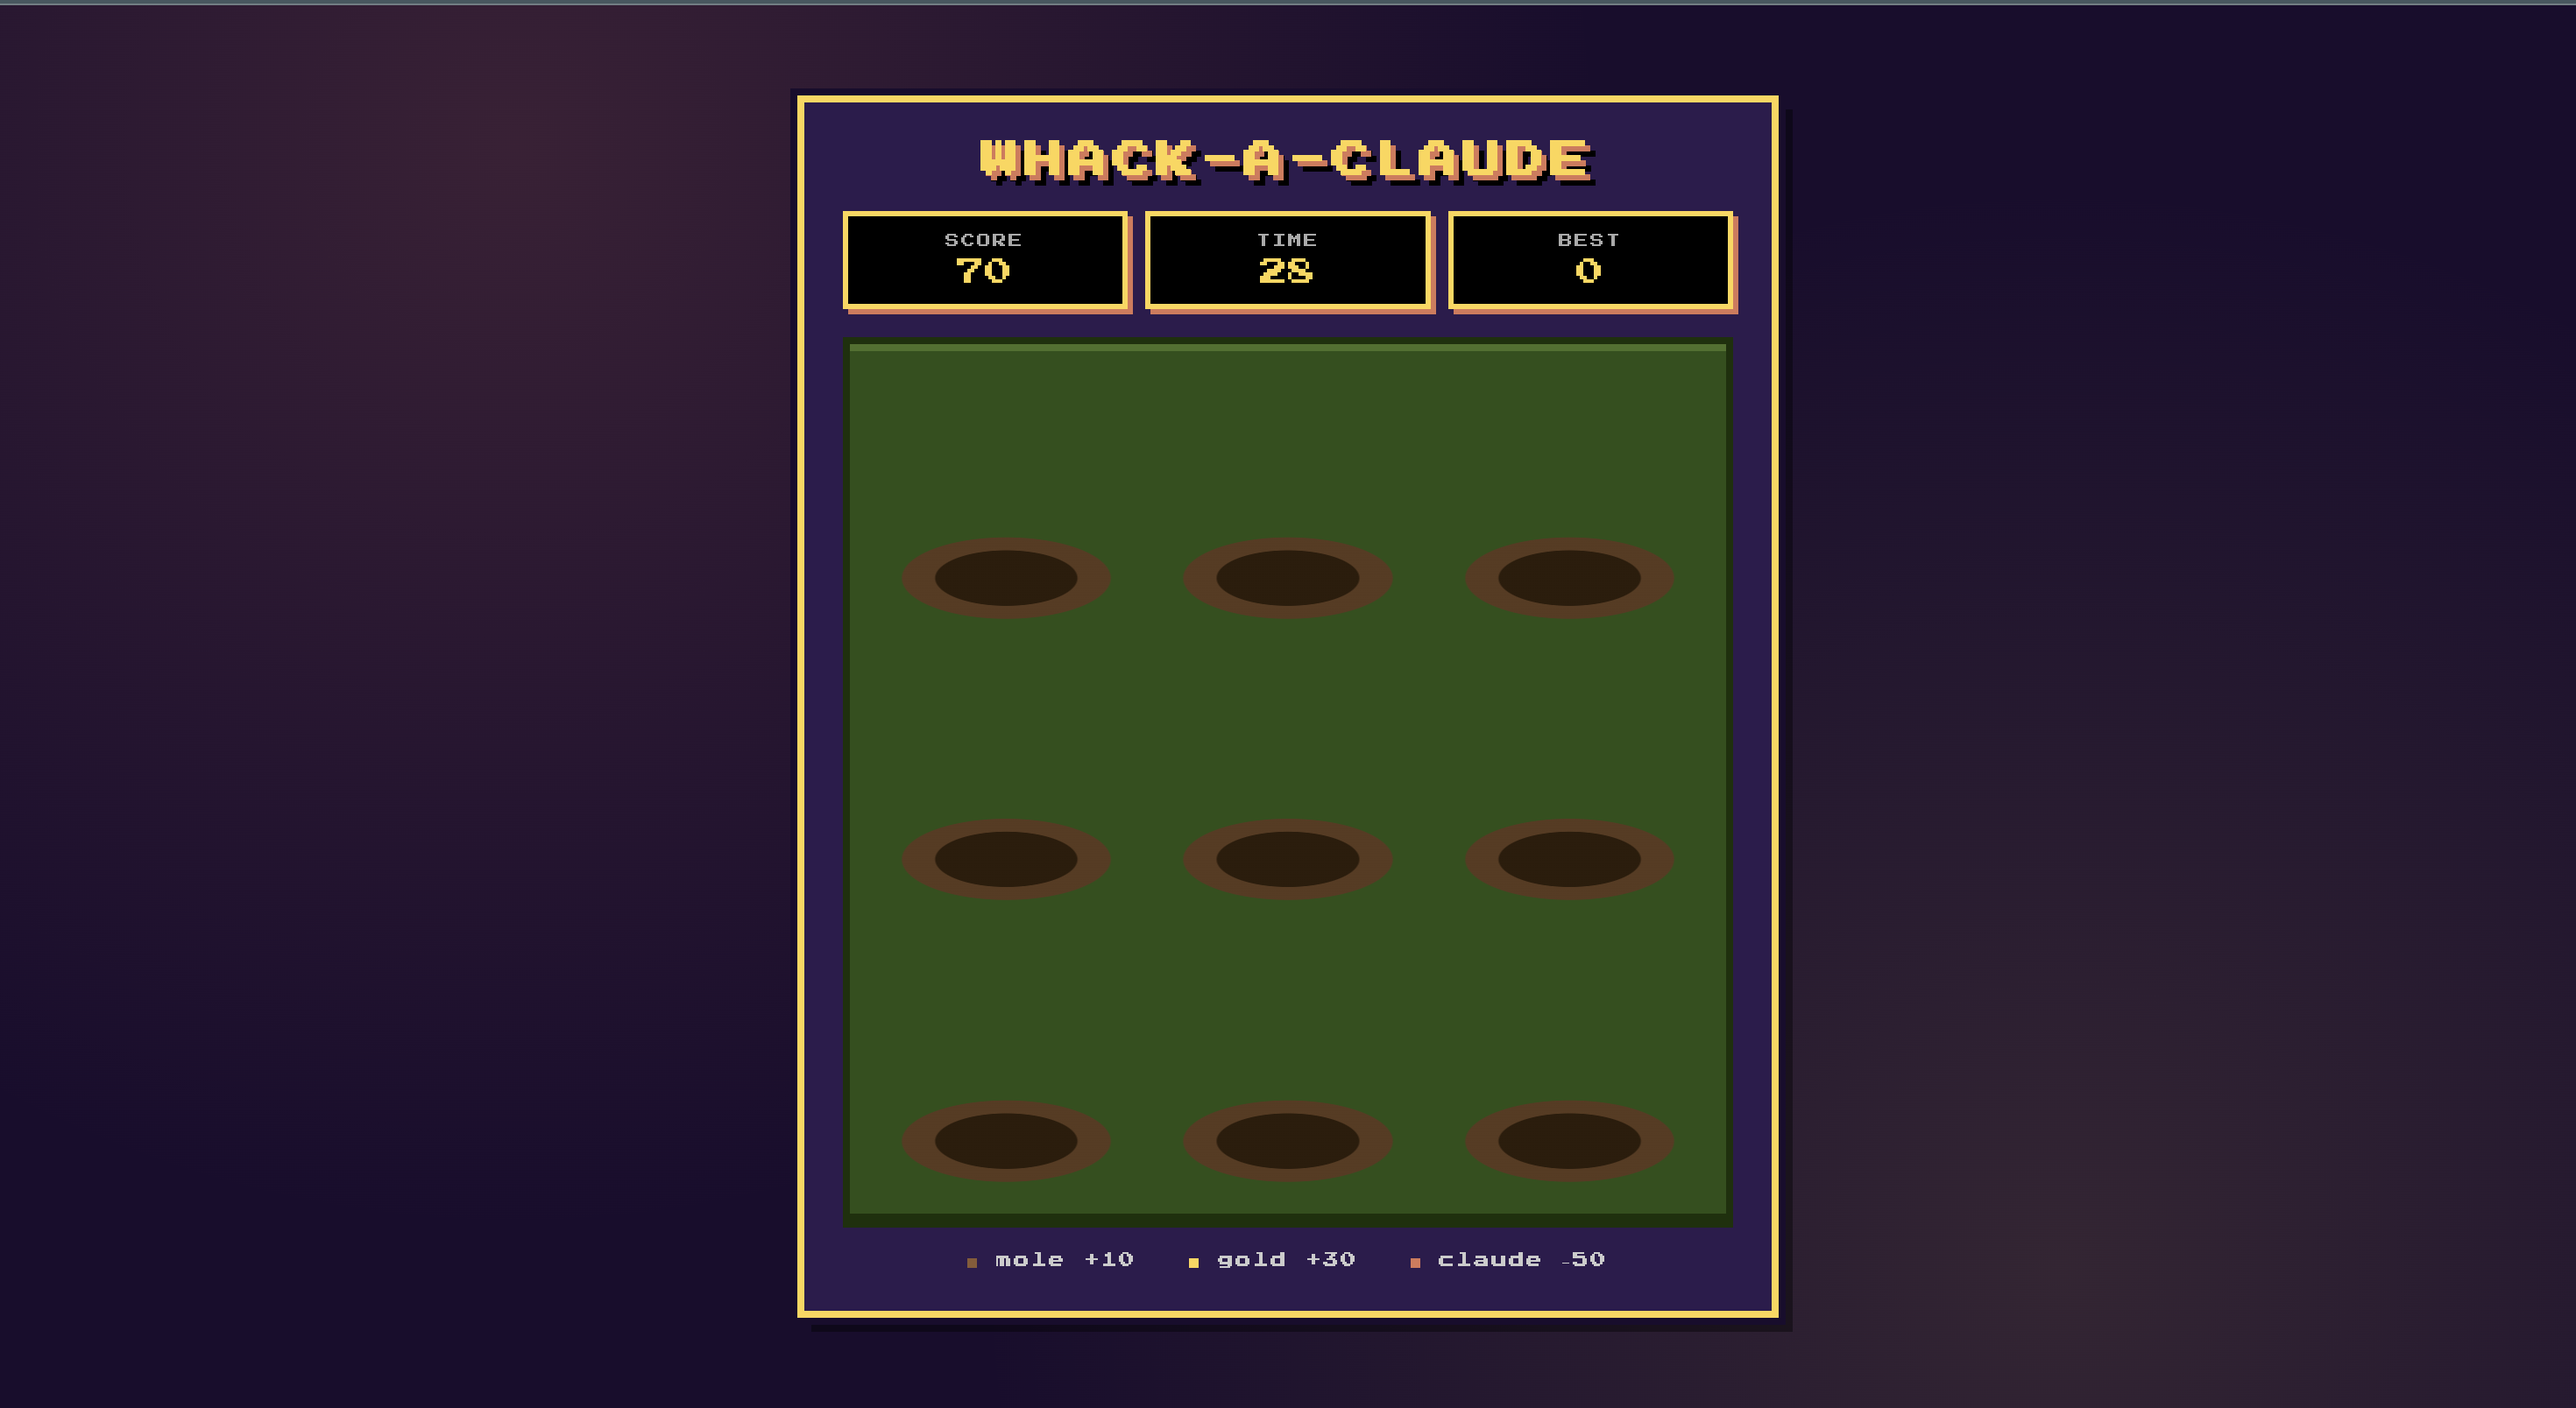
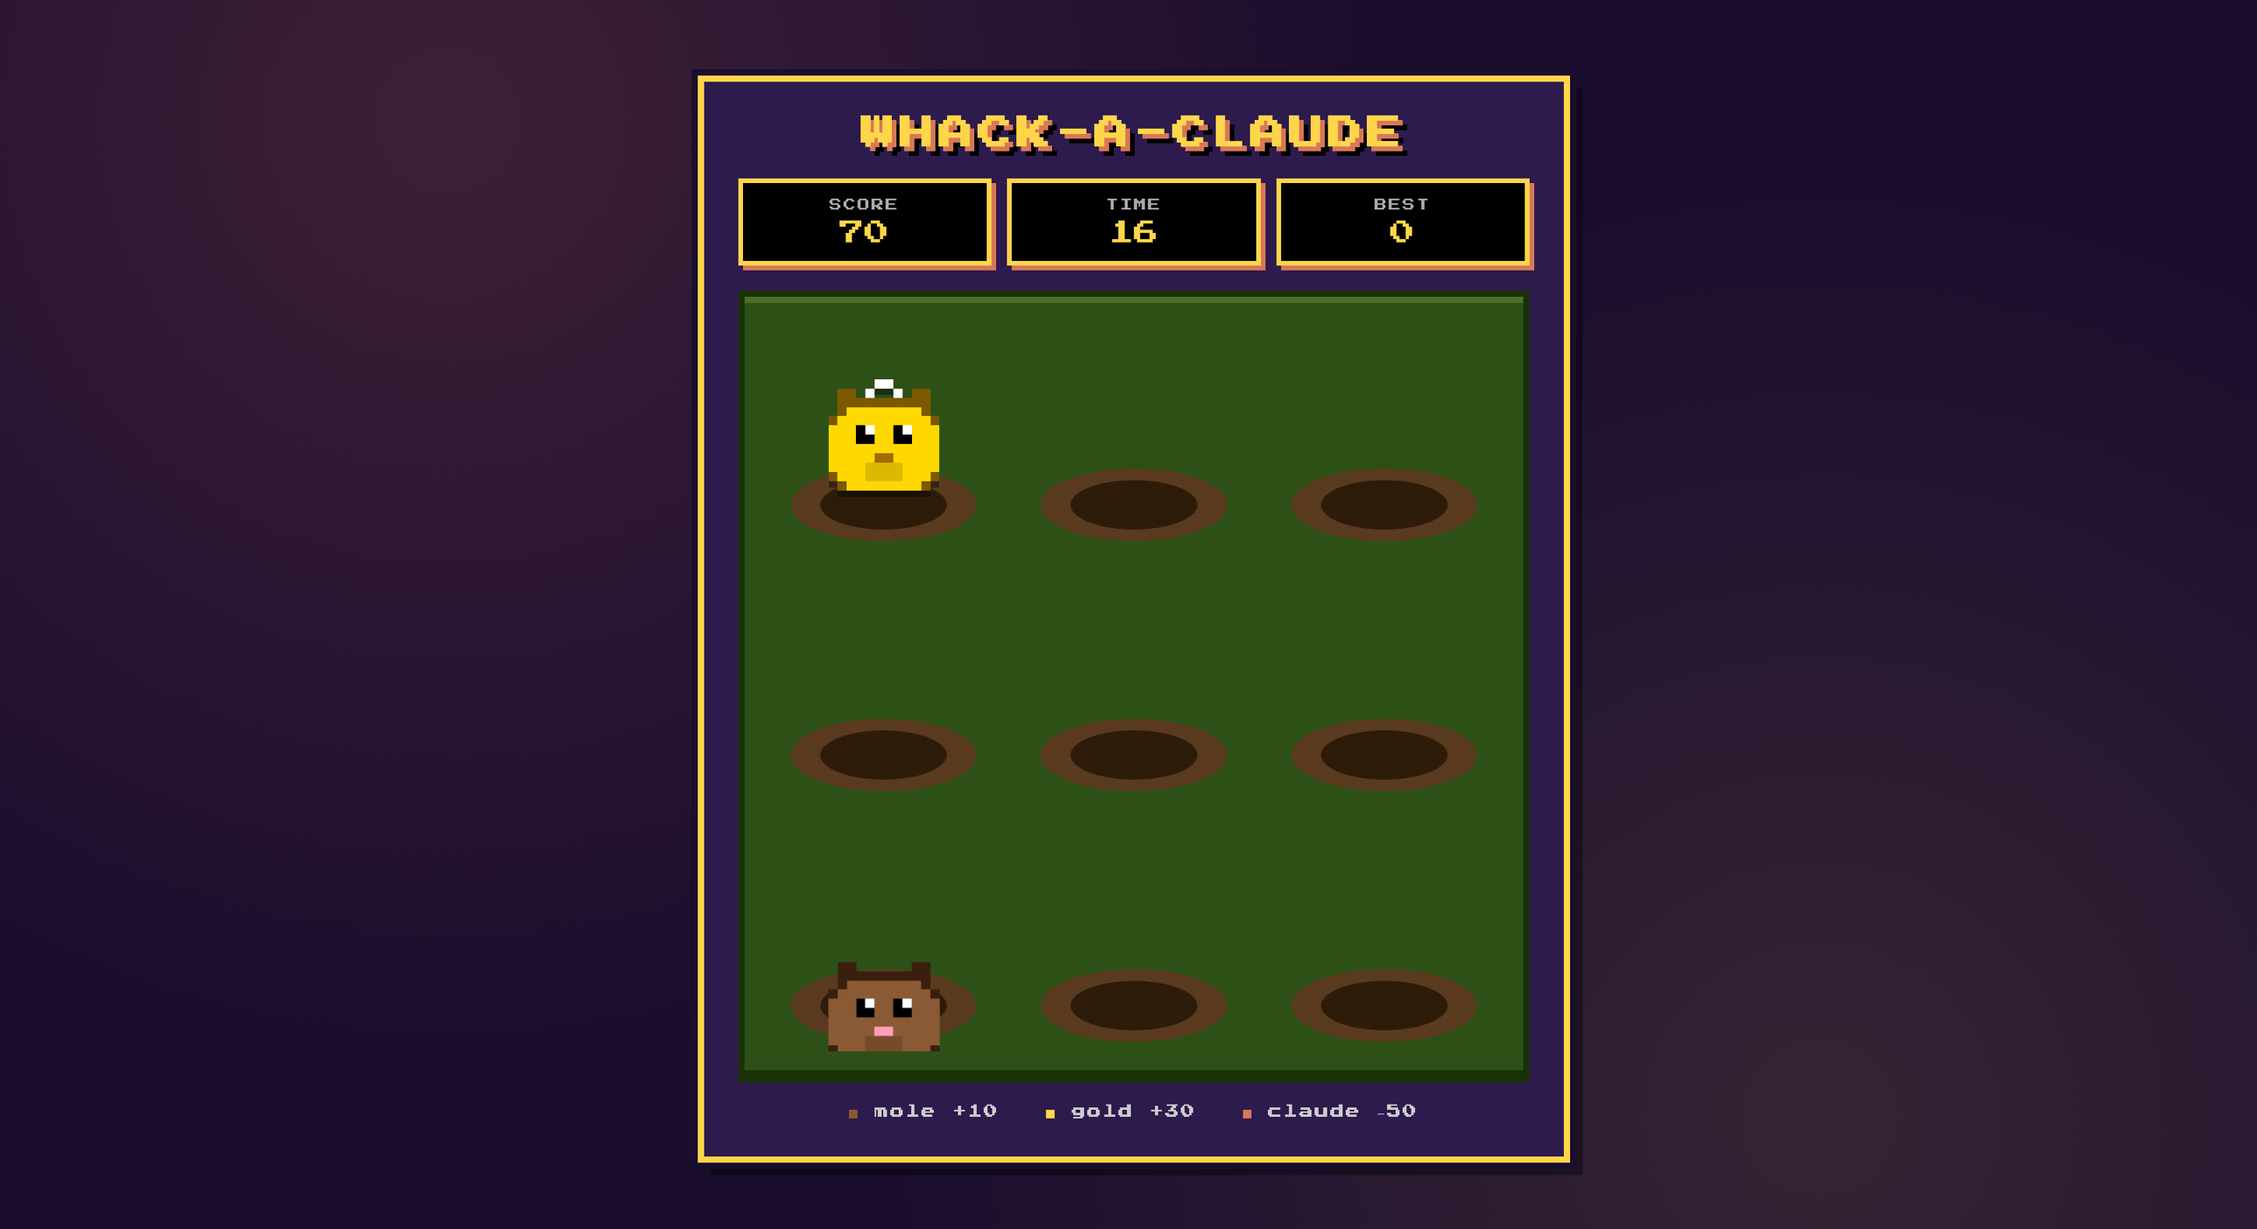
docs: tighter README — hero shot of the actual game in play, badges
- swap browser screenshot for one with moles actually up so the hero
  shot sells what the game looks like in motion
- add license / plugin / node badges
- restructure: tagline → hero → install → modes → scoring → mechanics →
  config → standalone, mirroring layout common in popular OSS READMEs
- cut filler prose; every section now earns its place

diff --git a/README.md b/README.md
@@ -1,61 +1,88 @@
-# whack-a-claude
-
-> **The arcade game that pops up when Claude is taking too long to think.**
-
-Claude takes more than 8 seconds? Game appears. Claude finishes? Game closes itself. Hit moles for points, hit gold for bonus, **don't hit the Claudes**.
+<h1 align="center">whack-a-claude</h1>
 
 <p align="center">
-  <img src="assets/screenshots/browser.png" width="48%" alt="Browser mode" />
-  <img src="assets/screenshots/terminal.png" width="48%" alt="Terminal mode" />
+  <b>The arcade game that pops up when Claude is taking too long.</b>
 </p>
-<p align="center"><sub><b>Browser mode</b> &nbsp;·&nbsp; <b>Terminal mode</b></sub></p>
 
-## Two ways to play
+<p align="center">
+  <img src="https://img.shields.io/badge/license-MIT-blue.svg" alt="MIT" />
+  <img src="https://img.shields.io/badge/claude%20code-plugin-d97757.svg" alt="Claude Code plugin" />
+  <img src="https://img.shields.io/badge/node-%E2%89%A518-339933.svg" alt="Node ≥18" />
+</p>
 
-| | |
-|---|---|
-| 🌐 **Browser** | Auto-opens via Claude Code hooks. Pixel SVG sprites, squish animations, arcade chrome. |
-| 💻 **Terminal** | Standalone TUI in `blessed`. Mouse + keyboard. Never leaves the shell. Run `npm run tui`. |
+<p align="center">
+  <img src="assets/screenshots/browser.png" width="560" alt="whack-a-claude — browser mode" />
+</p>
 
-## Install — as a Claude Code plugin
+---
+
+Claude taking more than 8 seconds to respond? A pixel-art whack-a-mole opens in your browser. Claude finishes? The game closes itself. Fast turns never see it. Slow turns become 60 seconds of moles, gold bonuses, and rogue Claudes you must absolutely **not** whack.
+
+Two modes — **browser** (the default, auto-launched by a Claude Code hook) and **terminal** (a full TUI that never leaves your shell).
+
+## Install
+
+As a Claude Code plugin:
 
 ```bash
 git clone https://github.com/ChenJiangxi/whack-a-claude ~/.claude-plugins/whack-a-claude
 claude plugin install ~/.claude-plugins/whack-a-claude
 ```
 
-Next time Claude takes >8s to respond, the game opens. Auto-closes when Claude is done.
+That's it. Next slow Claude turn → game opens.
+
+## Modes
+
+### Browser
+
+Auto-launches 8s after a slow turn starts and auto-closes when Claude is done. Pixel SVG sprites, squish/bonk animations, score pop-ups, persistent best score.
+
+### Terminal
+
+```bash
+npm install && npm run tui
+```
+
+Full-screen `blessed` TUI. Mouse and keyboard both work — `Q W E / A S D / Z X C` maps your keyboard's left-hand 3×3 onto the grid, so hand position matches grid position with zero translation.
+
+<p align="center">
+  <img src="assets/screenshots/terminal.png" width="640" alt="whack-a-claude — terminal mode" />
+</p>
 
 ## Scoring
 
 | target | points |
-|---|---|
-| 🟫 brown mole | **+10** |
-| 🟨 gold mole | **+30** |
-| 🟧 Claude | **−50** *(I warned you.)* |
+| --- | ---: |
+| brown mole | **+10** |
+| gold mole  | **+30** |
+| Claude     | **−50** *(don't.)* |
 
-60-second round. Difficulty ramps from chill to frantic. Best score persists.
+60-second round. Difficulty ramps from chill to frantic across the round. Best score persists at `~/.local/share/whack-a-claude/best`.
 
 ## How it works
 
-`UserPromptSubmit` hook → schedules a delayed game-open. `Stop` hook → cancels it.
-Fast turns never see the game; slow ones do.
+```
+UserPromptSubmit hook  →  status.json: "thinking"  +  schedule open in 8s
+Stop hook              →  status.json: "done"      +  cancel pending open
+```
+
+Fast turn: cancel fires before the open does, no game. Slow turn: game opens, polls `/status`, shows a "Claude's done" overlay when Claude finishes and auto-closes after 10s.
 
 ## Configure
 
 ```bash
 WHACK_DELAY=8     # seconds before the game pops
-WHACK_PORT=7654   # local server port (browser mode)
+WHACK_PORT=7654   # local server port
 ```
 
-## Try it without Claude
+## Run standalone (no Claude required)
 
 ```bash
 npm install
-npm start         # browser mode at http://127.0.0.1:7654
-npm run tui       # terminal mode
+npm start         # browser at http://127.0.0.1:7654
+npm run tui       # terminal
 ```
 
 ## License
 
-MIT
+[MIT](LICENSE)
